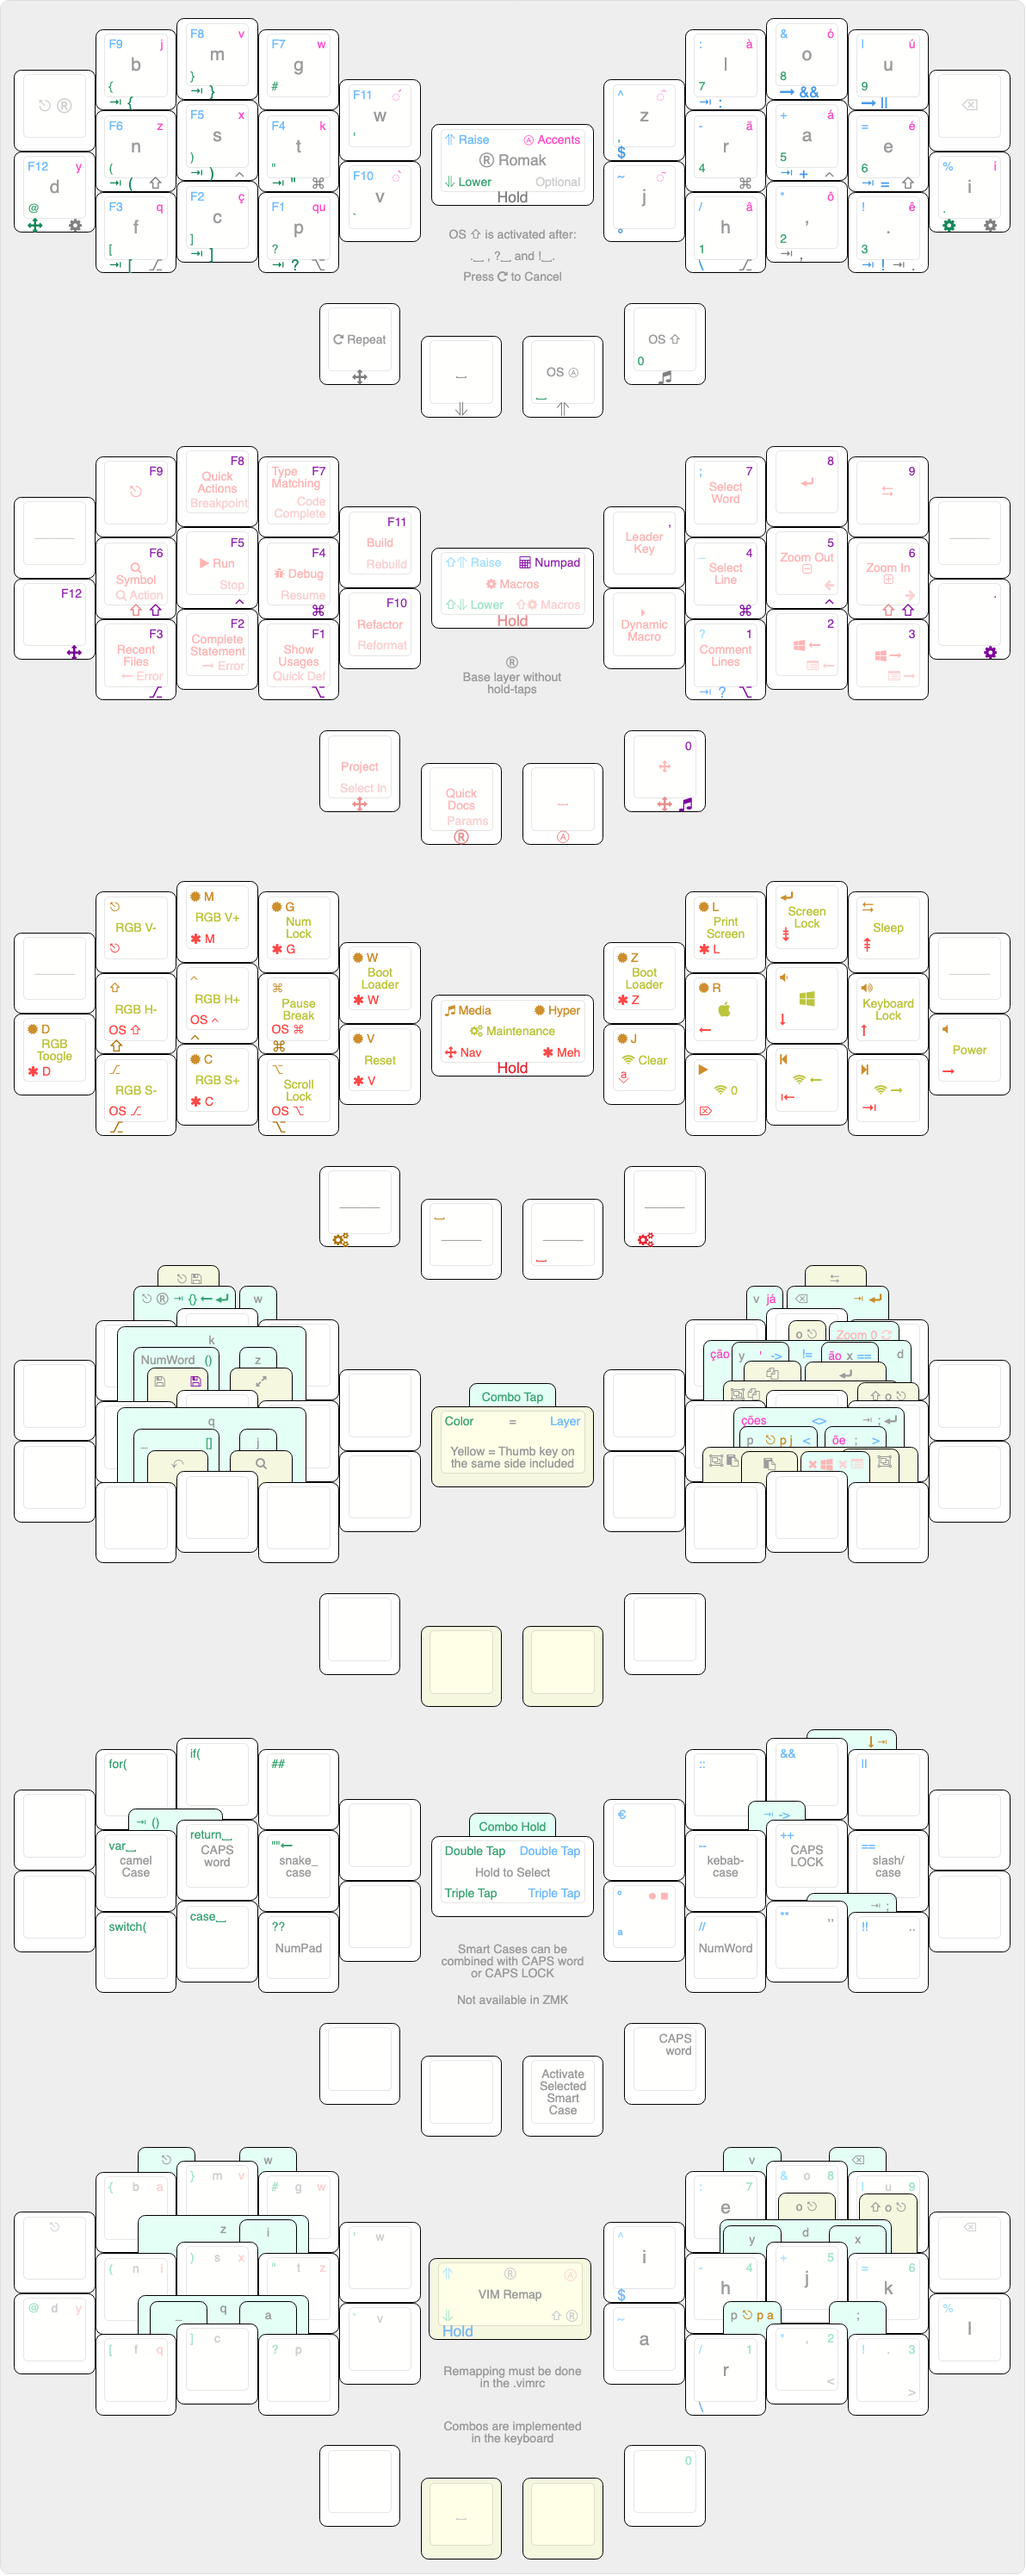
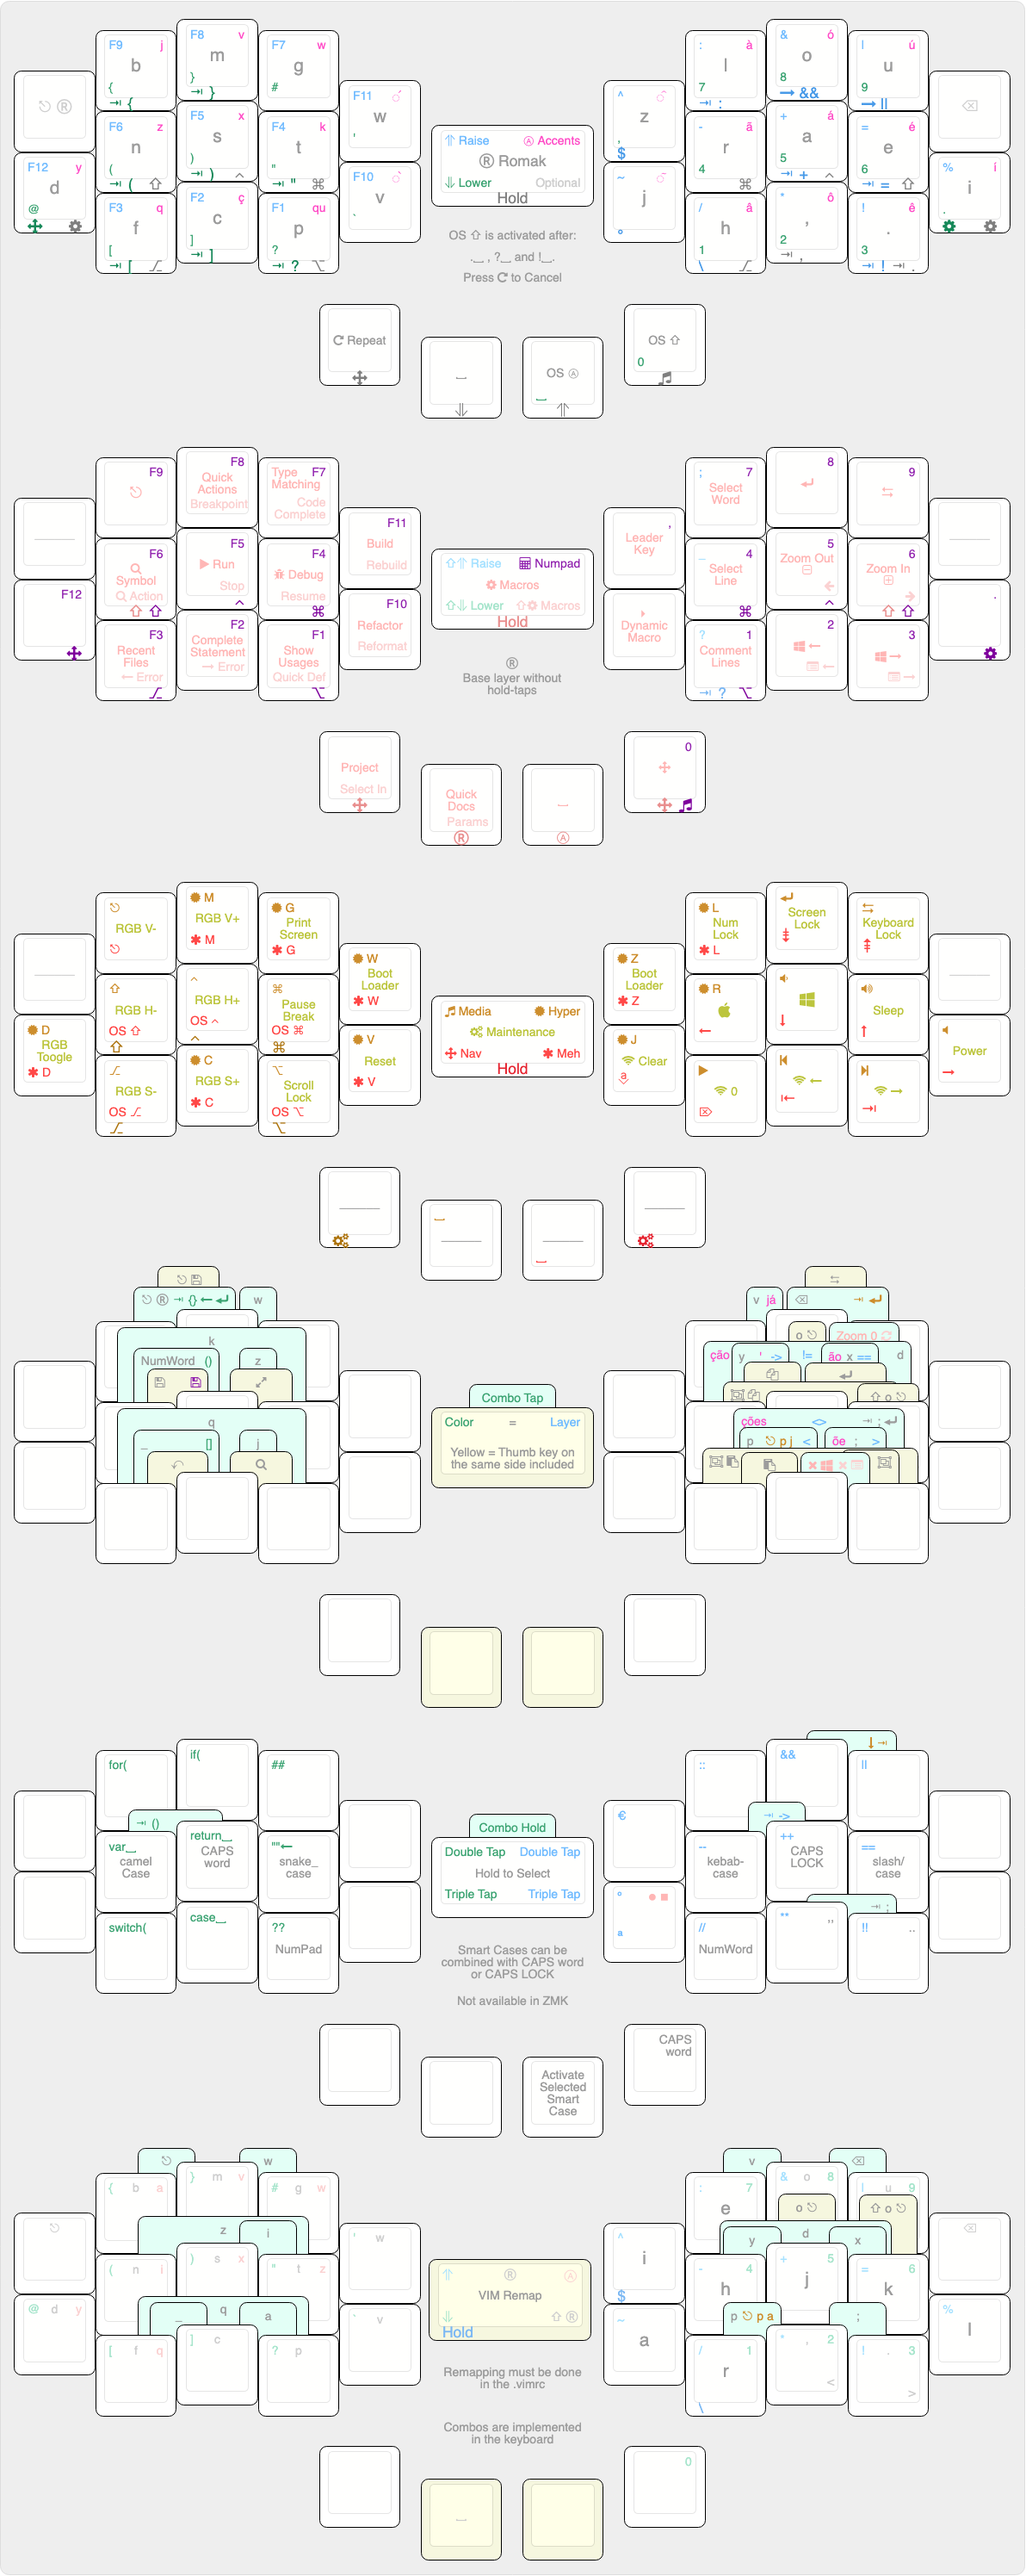
small refac

diff --git a/src/qmk/users/rafaelromao/definitions/keymap_blocks.h b/src/qmk/users/rafaelromao/definitions/keymap_blocks.h
@@ -111,13 +111,13 @@
 #define _______________________LOCK____R3____           XXXXXXX , XXXXXXX , XXXXXXX , XXXXXXX 
 #define ______LOCK____R4_                               XXXXXXX , _______
 
-#define ___________________MAINTENANCE_L1____           _______ , RGB_VAD , RGB_VAI , KC_NUM
+#define ___________________MAINTENANCE_L1____           _______ , RGB_VAD , RGB_VAI , KC_PSCR
 #define ___________________MAINTENANCE_L2______________ RGB_TOG , RGB_HUD , RGB_HUI , KC_PAUS , QK_BOOT
 #define           _________MAINTENANCE_L3______________           RGB_SAD , RGB_SAI , KC_SCRL , EE_CLR
 #define                               __MAINTENANCE_L4_                               XXXXXXX , XXXXXXX
 
-#define           _________MAINTENANCE_R1______________           KC_PSCR , MC_LOCK , KC_SLEP , _______
-#define ___________________MAINTENANCE_R2______________ QK_BOOT , TG_MAC  , TG_WIN  , TG_LOCK , KC_PWR
+#define           _________MAINTENANCE_R1______________           KC_NUM  , MC_LOCK , TG_LOCK , _______
+#define ___________________MAINTENANCE_R2______________ QK_BOOT , TG_MAC  , TG_WIN  , KC_SLEP , KC_PWR
 #define ___________________MAINTENANCE_R3____           EE_CLR  , XXXXXXX , XXXXXXX , XXXXXXX 
 #define __MAINTENANCE_R4_                               XXXXXXX , XXXXXXX
 
